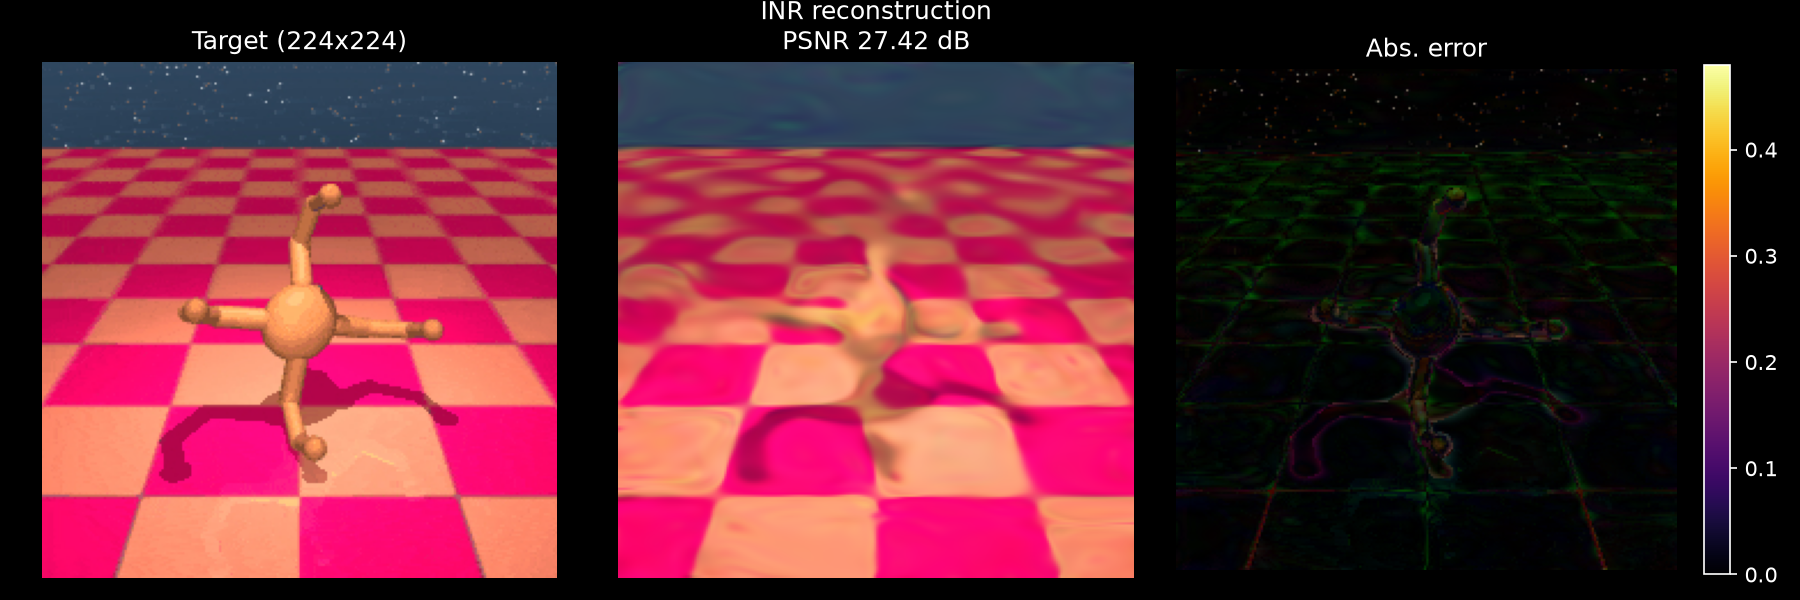
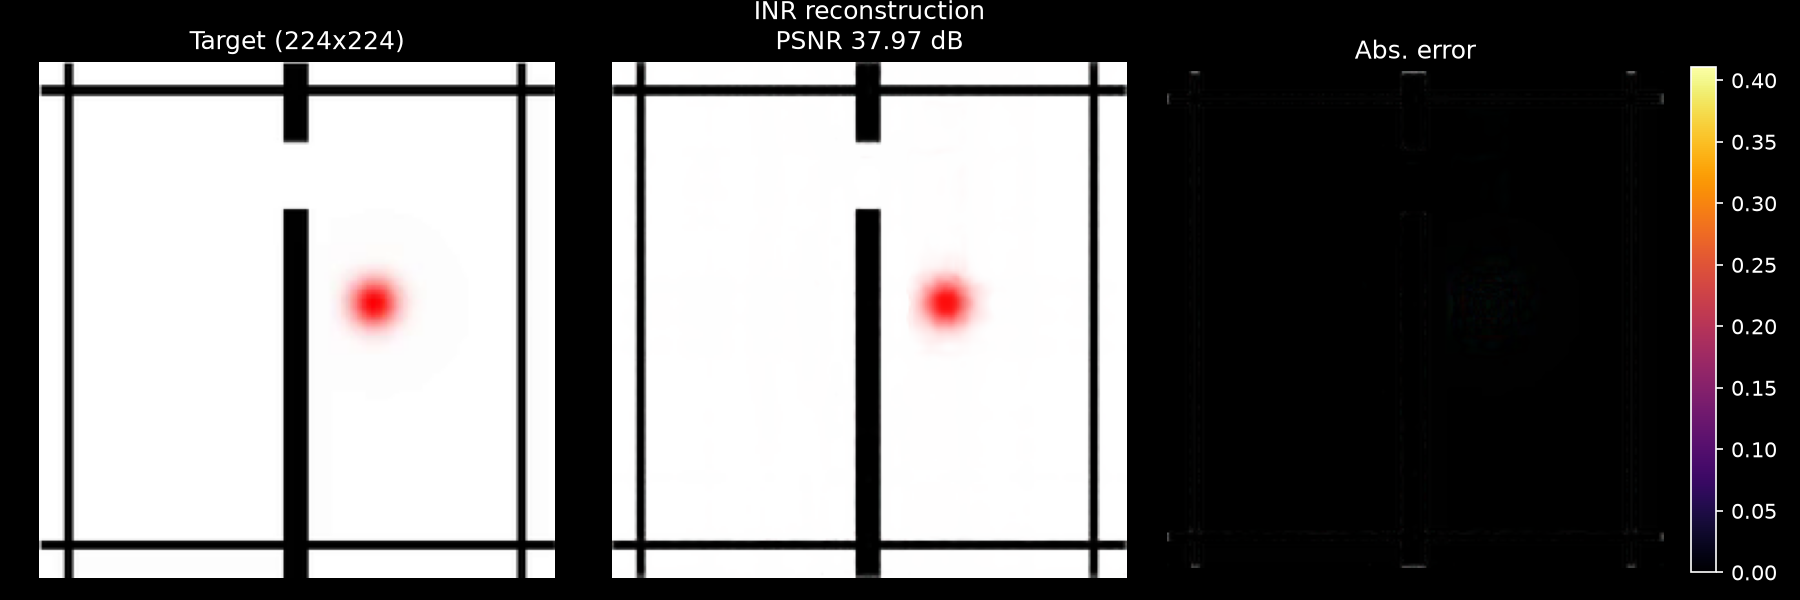
Realising that Fourrier feats <==> SIREN

diff --git a/implicit_neral_reps/train_inr.py b/implicit_neral_reps/train_inr.py
@@ -32,11 +32,12 @@ import matplotlib.pyplot as plt
 # --------------------------------------------------------------------------------------
 
 IMG_SIZE = 224
-USE_FOURIER_FEATURES = False  # <-- flip this to False to feed raw (x, y) coords instead
-NUM_FOURIER_FREQS = 1  # only used when USE_FOURIER_FEATURES = True
+USE_FOURIER_FEATURES = True
+NUM_FOURIER_FREQS = 5  # only used when USE_FOURIER_FEATURES = True
+PREDICT_ALPHA_CHANNEL = False  # if True, INR predicts RGBA instead of RGB
 INR_WIDTH = 12
 INR_DEPTH = 6
-NUM_STEPS = 25000
+NUM_STEPS = 30000
 LR = 1e-3
 SEED = 2030
 DTYPE = (
@@ -45,10 +46,10 @@ DTYPE = (
 
 # INPUT_IMAGE_PATH = "pusht.webp"
 # INPUT_IMAGE_PATH = "ogbench.png"
-# INPUT_IMAGE_PATH = "tworoom.png"
+INPUT_IMAGE_PATH = "tworoom.png"
 # INPUT_IMAGE_PATH = "reacher.png"
 # INPUT_IMAGE_PATH = "craftax.jpg"
-INPUT_IMAGE_PATH = "quadruped.jpg"
+# INPUT_IMAGE_PATH = "quadruped.jpg"
 OUT_DIR = "./"
 os.makedirs(OUT_DIR, exist_ok=True)
 
@@ -178,35 +179,98 @@ def compute_in_dim(use_fourier, num_freqs):
 #     return model
 
 
+
+
+
+
+
+
+
+
+# class INR(eqx.Module):
+#     layers: list
+#     raw_omega: jnp.ndarray  # shape (depth-1,), trainable, initialized to 0!
+#     base_omega: float = eqx.field(static=True)
+
+#     def __init__(self, in_dim, out_dim, width, depth, key, base_omega=10.0, **kwargs):
+#         keys = jax.random.split(key, depth)
+#         dims = [in_dim] + [width] * (depth - 1) + [out_dim]
+#         self.layers = [
+#             eqx.nn.Linear(dims[i], dims[i + 1], key=keys[i]) for i in range(depth)
+#         ]
+#         self.base_omega = base_omega
+
+#         # raw_omega sits at 0.0, putting it perfectly on scale with network weights
+#         self.raw_omega = jnp.zeros((depth - 1,))
+
+#     def get_omega(self, i):
+#         # Exponential reparameterization naturally bounds omega > 0
+#         # and normalizes the gradient scales!
+#         return self.base_omega * jnp.exp(self.raw_omega[i])
+
+#     def __call__(self, x):
+#         for i, layer in enumerate(self.layers):
+#             x = layer(x)
+#             if i < len(self.layers) - 1:
+#                 omega = self.get_omega(i)
+#                 x = jnp.sin(omega * x)
+#         return x
+
 class INR(eqx.Module):
+    """Tiny coordinate-based INR. Its flattened weights ARE the world-model state z."""
     layers: list
-    raw_omega: jnp.ndarray  # shape (depth-1,), trainable, initialized to 0!
     base_omega: float = eqx.field(static=True)
 
-    def __init__(self, in_dim, out_dim, width, depth, key, base_omega=20.0, **kwargs):
+    def __init__(self, in_dim, out_dim, width, depth, key, **kwargs):
         keys = jax.random.split(key, depth)
+
+        ## print the in_dim that is used for the INR
+        print(f"INR input dimension: {in_dim}")
+
+        if "predict_alpha" in kwargs and kwargs['predict_alpha']:
+            out_dim = out_dim + 1  # add alpha channel to output dimension
+            print(f"INR output dimension: {out_dim} (predicting alpha channel)")
+
+        ## Fixed width
         dims = [in_dim] + [width] * (depth - 1) + [out_dim]
-        self.layers = [
-            eqx.nn.Linear(dims[i], dims[i + 1], key=keys[i]) for i in range(depth)
-        ]
-        self.base_omega = base_omega
 
-        # raw_omega sits at 0.0, putting it perfectly on scale with network weights
-        self.raw_omega = jnp.zeros((depth - 1,))
+        ## gradually decreasing width
+        # dims = [in_dim] + [width - i * (width // depth) for i in range(depth - 1)] + [out_dim]
 
-    def get_omega(self, i):
-        # Exponential reparameterization naturally bounds omega > 0
-        # and normalizes the gradient scales!
-        return self.base_omega * jnp.exp(self.raw_omega[i])
+        # ## widths increase up to max_width in the middle layer, then decrease back down to out_dim
+        # max_width = width*6
+        # dims = []
+        # for i in range(depth):
+        #     if i < (depth - 1) // 2:
+        #         new_dim = in_dim + (max_width - in_dim) * (i / ((depth - 1) // 2))
+        #     else:
+        #         new_dim = max_width - (max_width - width) * ((i - (depth - 1) // 2) / ((depth - 1) // 2))
+        #     dims.append(int(new_dim))
+        # dims.append(out_dim)
+
+
+
+
+        print(f"INR layer dimensions: {dims}")
+
+
+        self.layers = [eqx.nn.Linear(dims[i], dims[i + 1], key=keys[i], use_bias=True) for i in range(depth)]
+
+        self.base_omega = 1.0  # standard SIREN default
 
     def __call__(self, x):
         for i, layer in enumerate(self.layers):
             x = layer(x)
             if i < len(self.layers) - 1:
-                omega = self.get_omega(i)
-                x = jnp.sin(omega * x)
-        return x
+                x = jax.nn.gelu(x)
 
+        if x.shape[-1] == 4:
+            alpha = jax.nn.sigmoid(x[..., 3:4])  # alpha channel
+            rgb = jax.nn.sigmoid(x[..., :3])  # RGB channels
+
+            x = jax.nn.sigmoid(alpha) * rgb  # premultiply RGB by alpha
+
+        return x
 
 def siren_init(model, key, init_omega=30.0):
     """
@@ -315,7 +379,7 @@ def train(model, coords, target, num_steps, lr, use_fourier, num_freqs):
             model, opt_state, coords, target, optimizer, loss_fn
         )
         losses[step] = float(loss)
-        if step % 500 == 0 or step == num_steps - 1:
+        if step % 2500 == 0 or step == num_steps - 1:
             print(
                 f"step {step:5d}  mse {float(loss):.6f}  psnr {psnr(float(loss)):.2f} dB"
             )
@@ -405,6 +469,8 @@ model = INR(
     key=model_key,
     omega_min=10.0,
     omega_max=60.0,
+    num_freqs=NUM_FOURIER_FREQS,
+    predict_alpha=PREDICT_ALPHA_CHANNEL
 )
 model = siren_init(model, model_key, init_omega=30.0)
 
